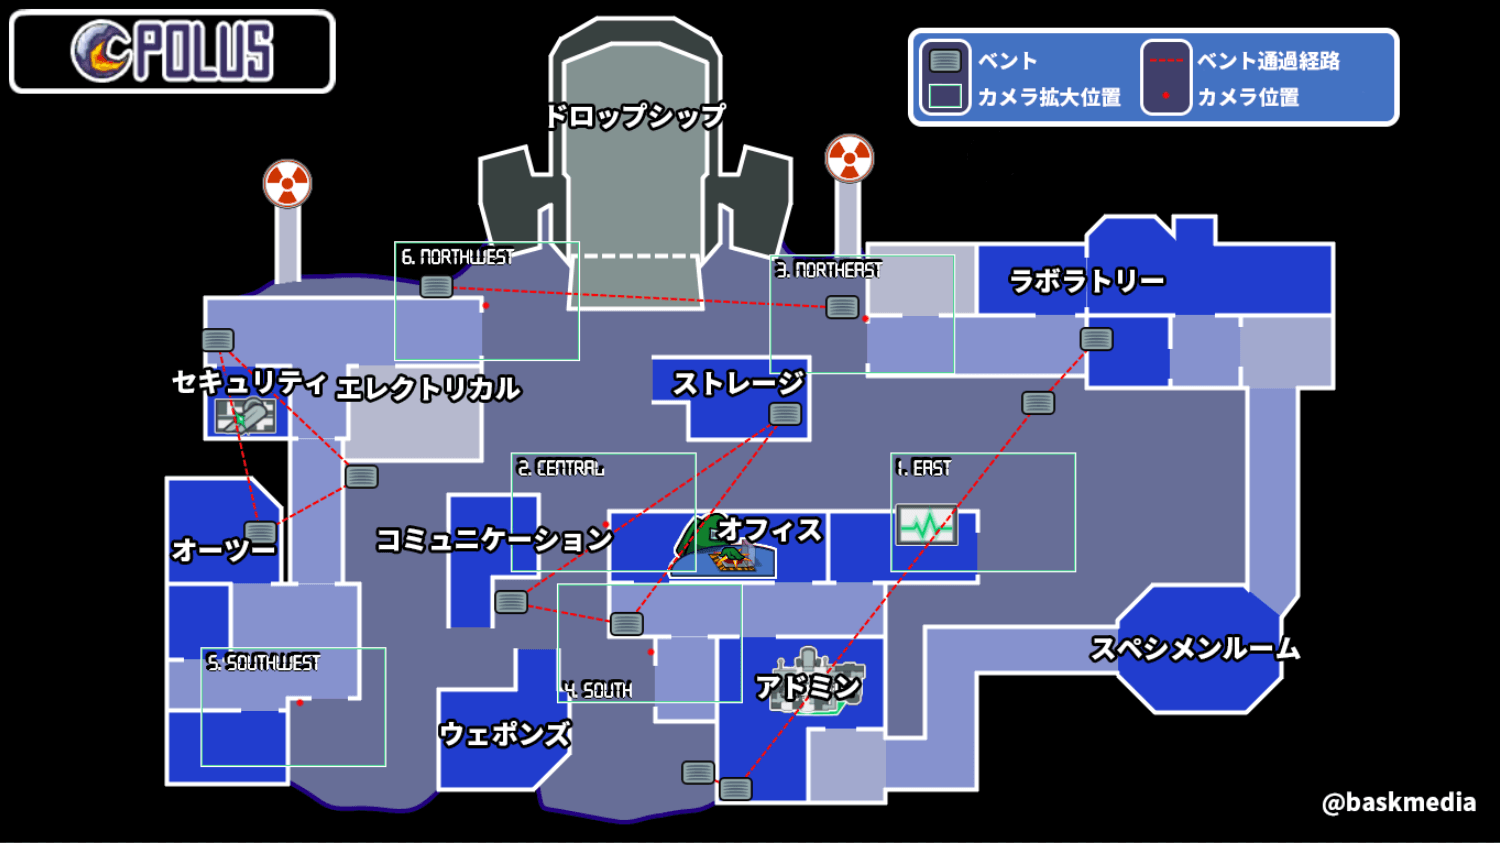
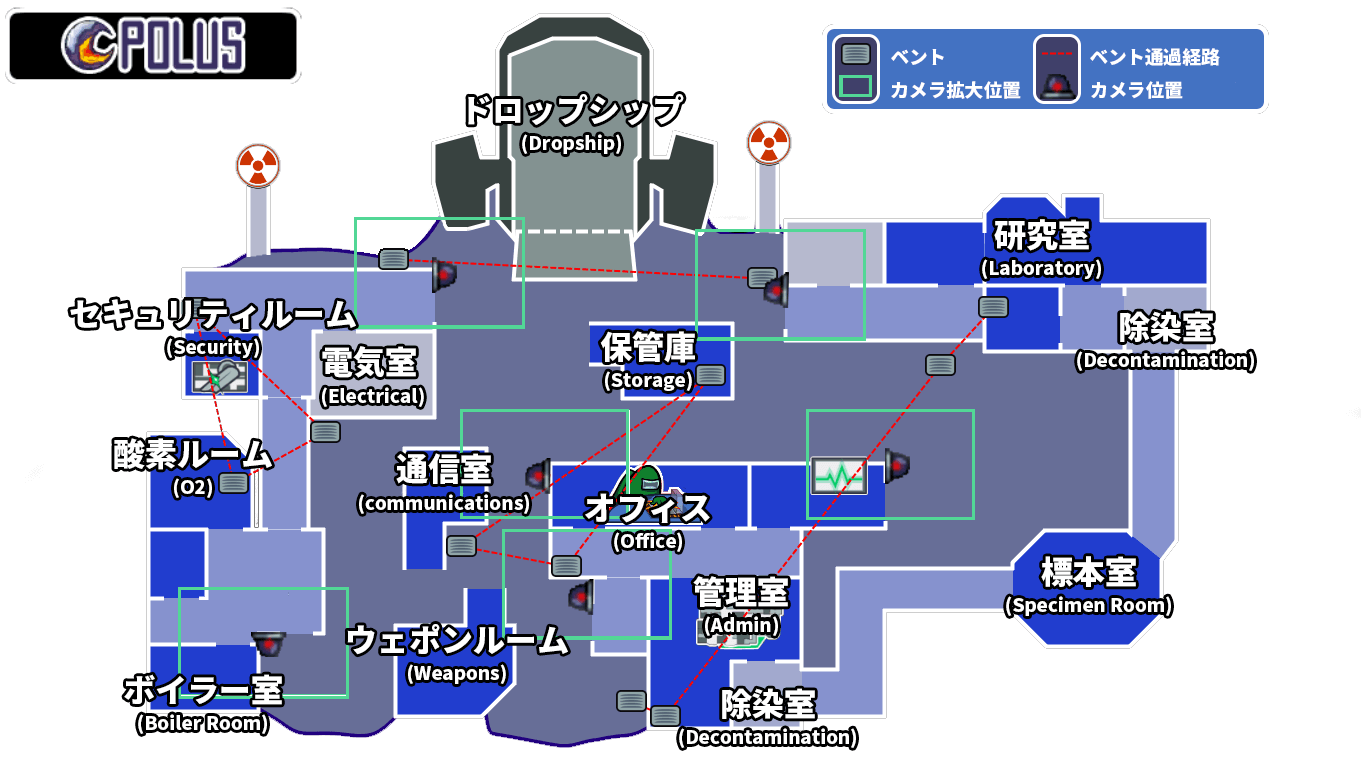
Map画像4種刷新かつ統一、あわせてドキュメント、権利表記も更新

diff --git a/src/paperbase/pages/others/about/site/Site.jsx b/src/paperbase/pages/others/about/site/Site.jsx
@@ -63,20 +63,12 @@ function Site(props) {
         <h4>Among Us Icon</h4>
         <a href="https://iconscout.com/icons/among-us" target="_blank">Among Us Icon</a> by <a href="https://iconscout.com/contributors/sonisokell">Soni Sokell</a> on <a href="https://iconscout.com">Iconscout</a>
 
-        <h4>マップ画像（The Skeld、MiraHQ、Polus）</h4>
+        <h4>マップ画像4種</h4>
         <Typography color="textSecondary" align="left">
           <Link color='textSecondary' href='https://baskmedia.jp/amongus-japanese-map/'>
             {'【AmongUs】マップ画像を作成したよ！【日本語訳対応済み】'}
           </Link>
         </Typography>
-
-        <h4>マップ画像（The Airship）</h4>
-        <Typography color="textSecondary" align="left">
-          <Link color='textSecondary' href='https://twitter.com/jinguji777ch/status/1377395749567139845?s=20'>
-            {'アモアス部'}
-          </Link>
-        </Typography>
-
       </div>
 
 

diff --git a/README.md b/README.md
@@ -10,8 +10,5 @@
 - Created by [Soni Sokell](https://iconscout.com/contributors/sonisokell) on [Iconscout](https://iconscout.com/)
             
 
-## マップ画像（The Skeld、MiraHQ、Polus）
+## マップ画像4種
 - 引用元：[【AmongUs】マップ画像を作成したよ！【日本語訳対応済み】](https://baskmedia.jp/amongus-japanese-map/)
-
-## マップ画像（The Airship）
-- 引用元：[アモアス部](https://twitter.com/jinguji777ch/status/1377395749567139845?s=20)
